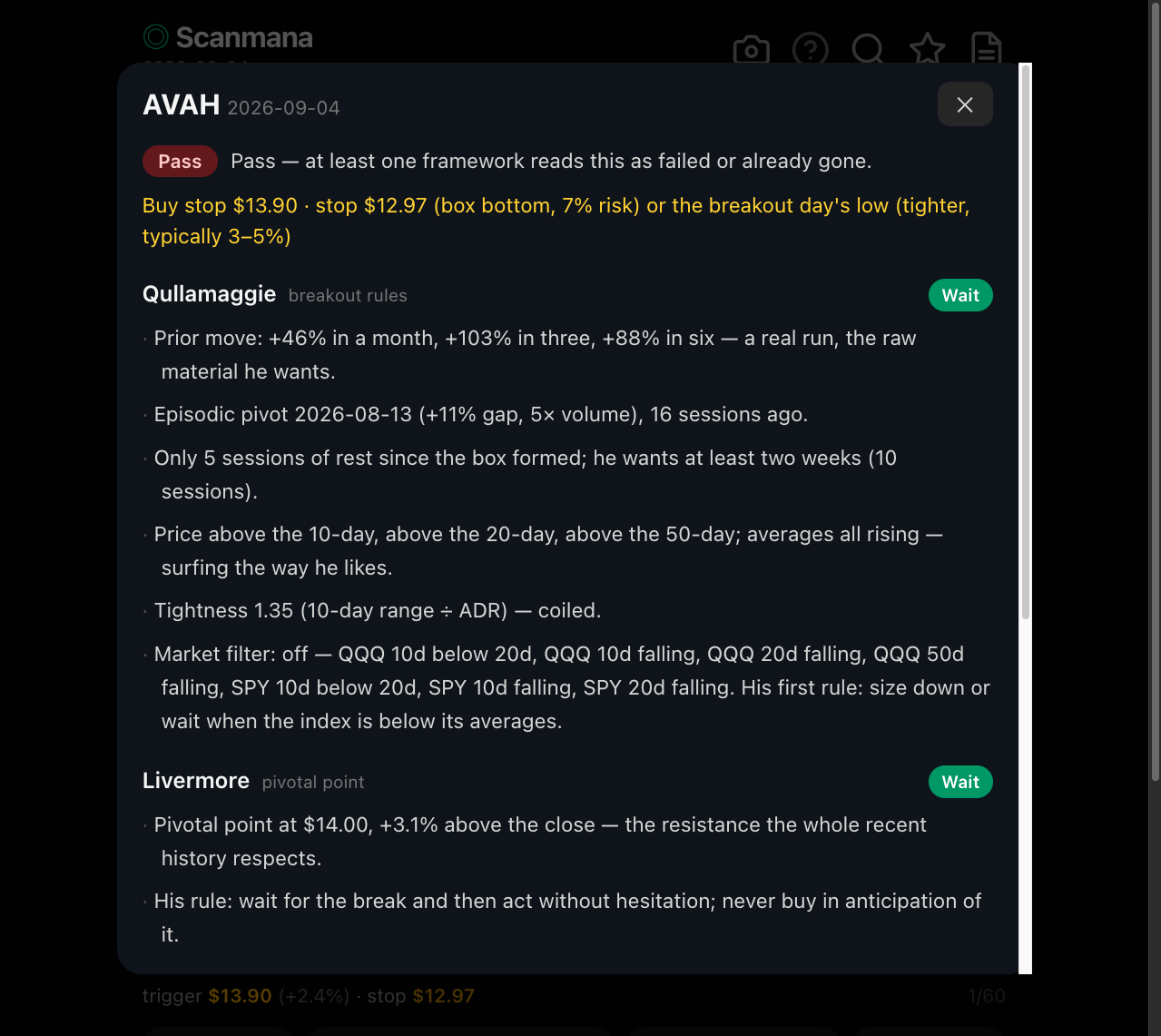
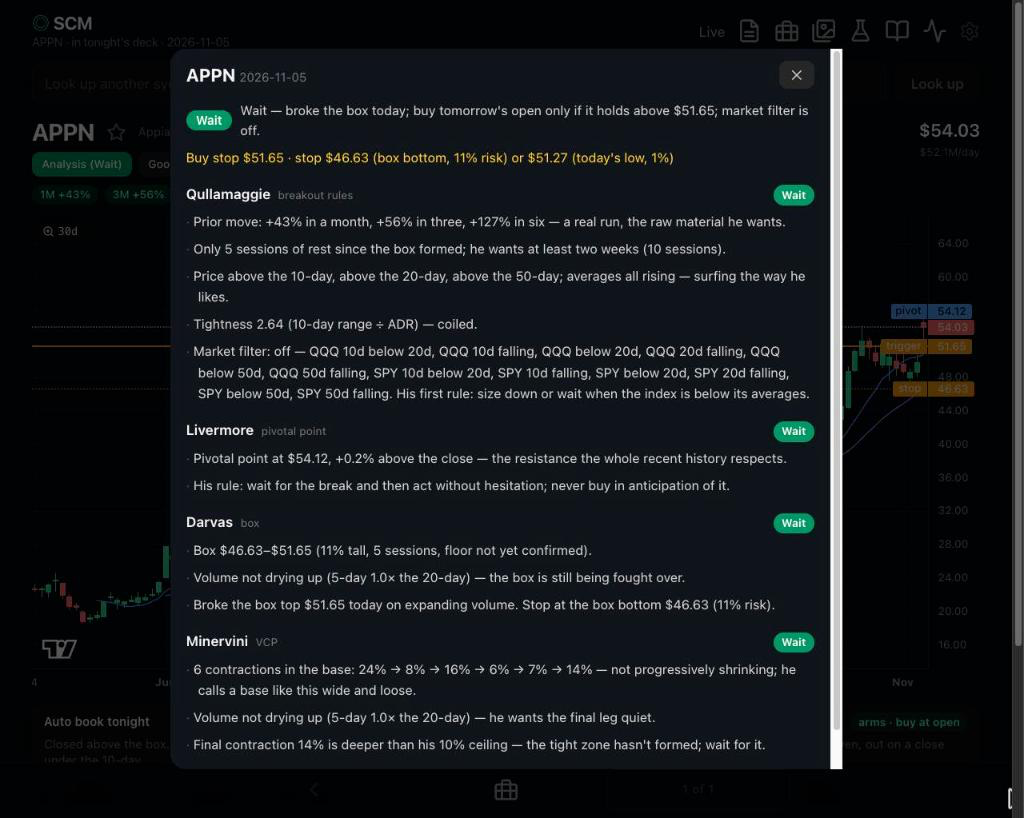
README: screenshots retaken on v1.8.3
The five shots were from 2026-09-07, before the paper books, the research
layer, the deck list, the studies and the gallery existed. Ten shots now,
taken the night the Auto book armed its first order.

Claude-Session: https://claude.ai/code/session_01NuKN4ypcfybXLwJkDEvs88

diff --git a/README.md b/README.md
@@ -19,13 +19,23 @@ but nothing is traded from it until it holds out of sample.
 
 ## Screenshots
 
-| Deck | Analysis | Live watchlist |
-|---|---|---|
-| ![Deck: tonight's ranked setups with Darvas box, Livermore pivot and stop drawn on the chart](docs/screenshots/deck.png) | ![Analysis: rule-based Wait/Pass read per framework with the trade plan](docs/screenshots/analysis.png) | ![Live watchlist: starred names classified against their trigger in real time](docs/screenshots/watchlist-live.png) |
+Taken 2026-11-05 on v1.8.3, the night the Auto book armed its first order.
 
-| Symbol lookup | Help |
-|---|---|
-| ![Symbol lookup: the same card for any ticker plus the Scan fit checklist](docs/screenshots/symbol-lookup.png) | ![Help: every badge and chart line explained, with who each idea comes from](docs/screenshots/help.png) |
+| Deck card | Deck list, grouped by the open | Analysis |
+|---|---|---|
+| ![Deck card: the market strip, the morning line, and tonight's setup with the trigger and stop drawn on the chart](docs/screenshots/deck.png) | ![Deck list: Arms tonight, Wait cards the book cannot arm, Pass folded away, each with its live chip](docs/screenshots/deck-list.png) | ![Analysis: the rule-based Wait/Pass read per framework, with the plan line at the top](docs/screenshots/analysis.png) |
+
+| Symbol lookup | Paper book | Watchlist |
+|---|---|---|
+| ![Symbol lookup: the same card for any ticker, with the Auto book's plan for it](docs/screenshots/symbol-lookup.png) | ![Paper book: the Auto ledger's numbers, the replay line, the fan and the armed orders](docs/screenshots/paper.png) | ![Watchlist: starred names against their trigger, live during the session](docs/screenshots/watchlist-live.png) |
+
+| Research | Studies | Best setups |
+|---|---|---|
+| ![Research: this week's read, the scorecard and the rule changes, each with its range](docs/screenshots/research.png) | ![Studies: Kullamägi's plan scored on every boxed Wait card, by stop width and by ADR](docs/screenshots/studies.png) | ![Best setups: the deck cards that went furthest, with the scan night and the buy marked](docs/screenshots/gallery.png) |
+
+| Help: the index charts |
+|---|
+| ![Help: QQQ and SPY with the 10/20/50 averages, following the day at a 30-minute cadence](docs/screenshots/help.png) |
 
 ## How it works
 
